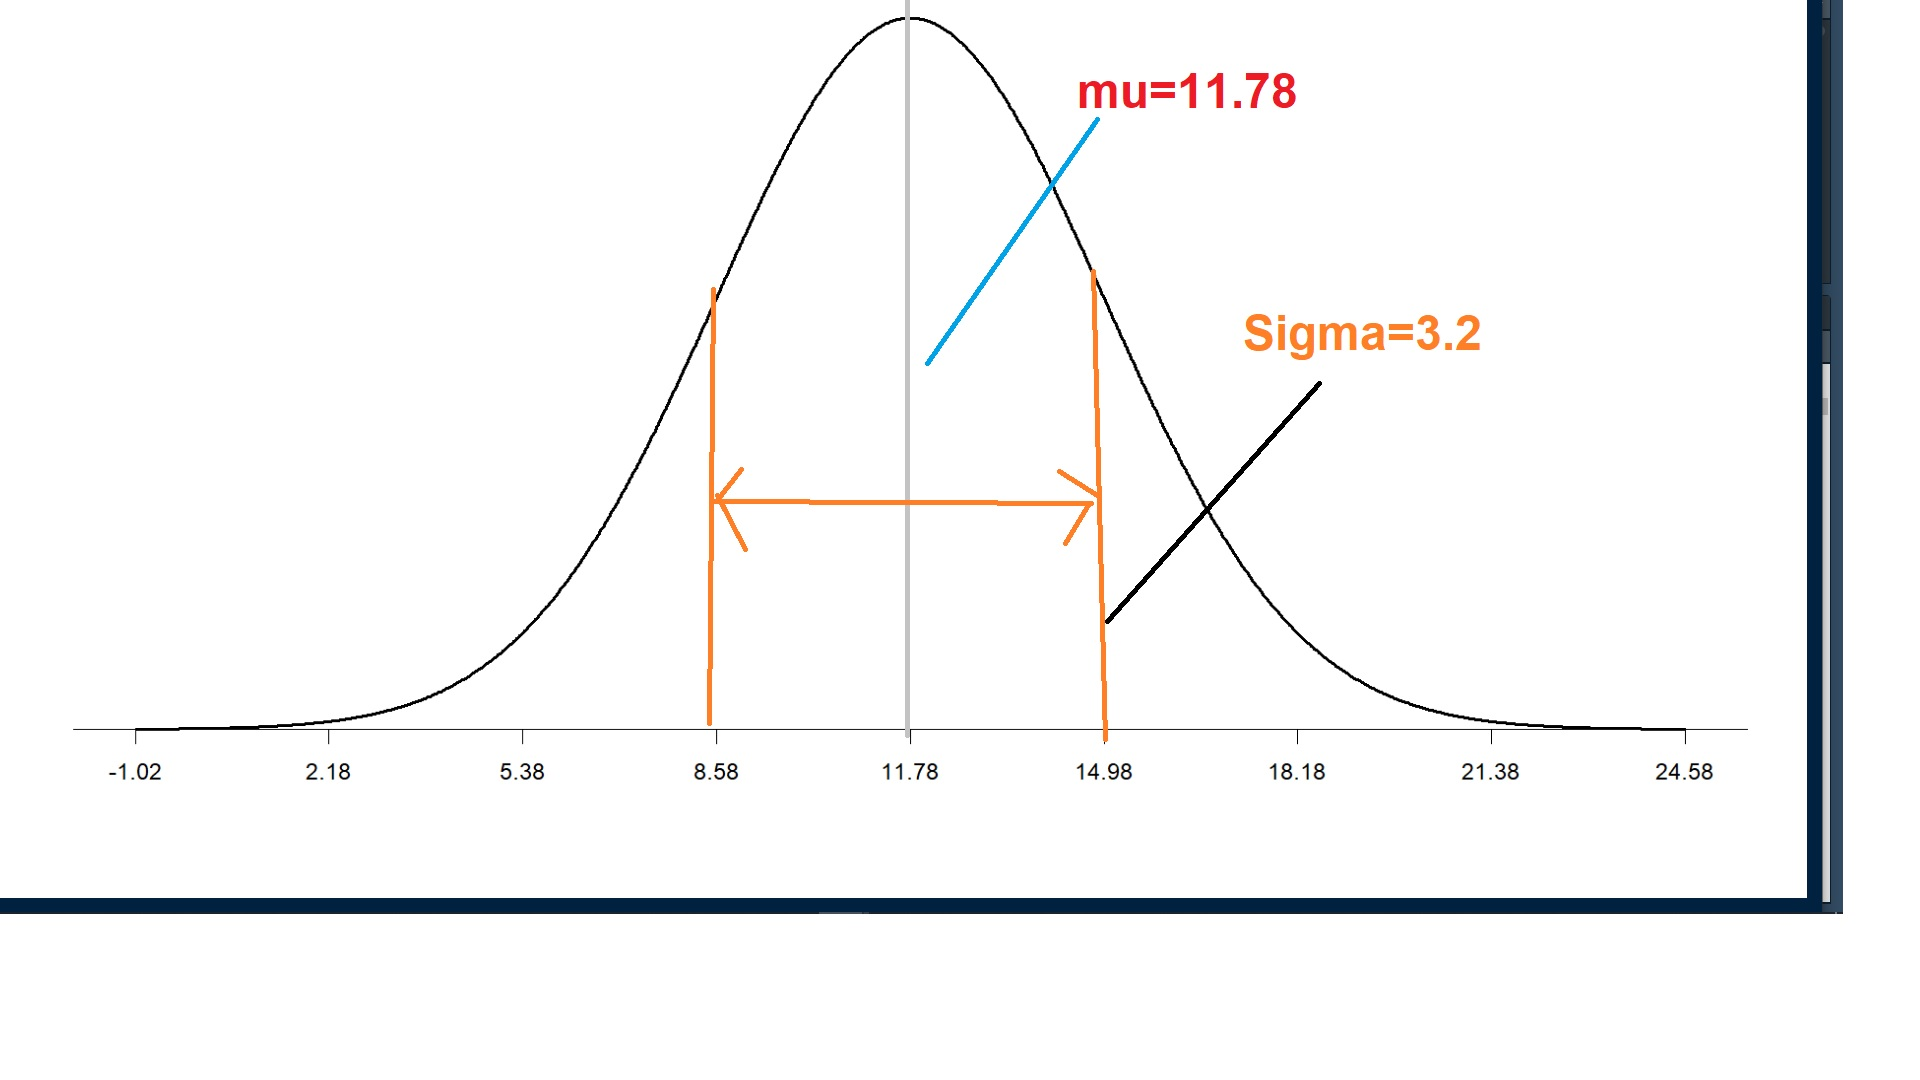
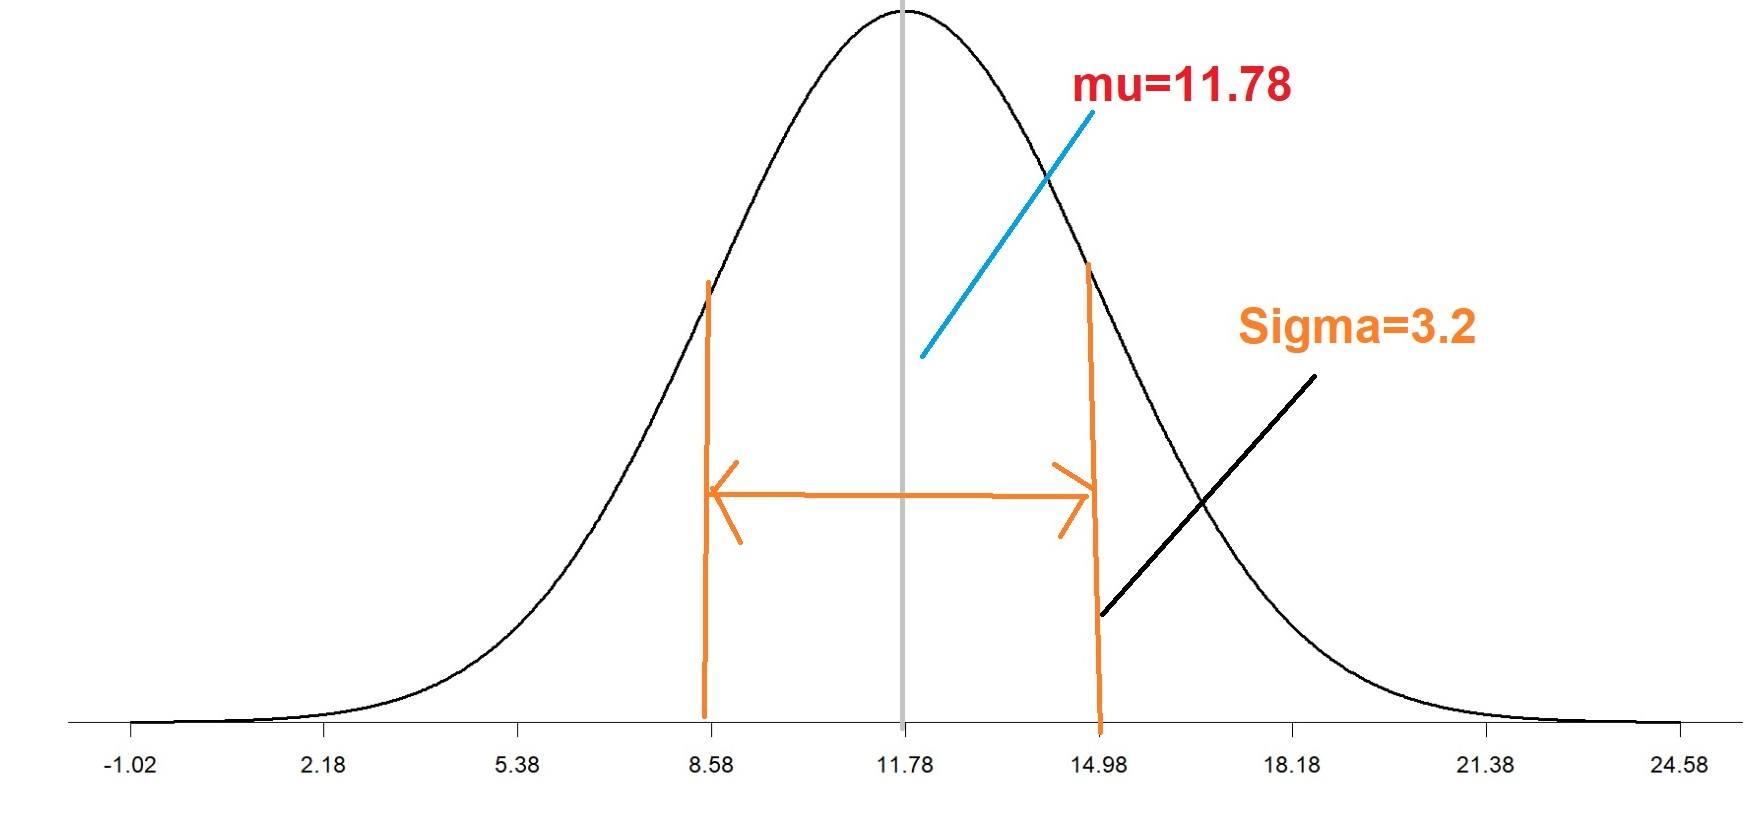
m

diff --git a/content/post/Unidad3.html b/content/post/Unidad3.html
@@ -360,6 +360,7 @@ tiempo de permanencia de los directores en la universidad es de 3.2 años.)</p>
 <p><em>Pendiente incluir plot con distribucion normal N(11.78,0.2997075), n=114</em></p>
 <p><img src="/post/Unidad3_files/figure-html/unnamed-chunk-2-1.png" width="672" /></p>
 <pre><code>## [1] 14.98</code></pre>
+<p><img src="/img/dsvooo.jpg" /></p>
 <pre class="r"><code>xbar&lt;-11.78
 sigma&lt;-3.2
 n&lt;-114
